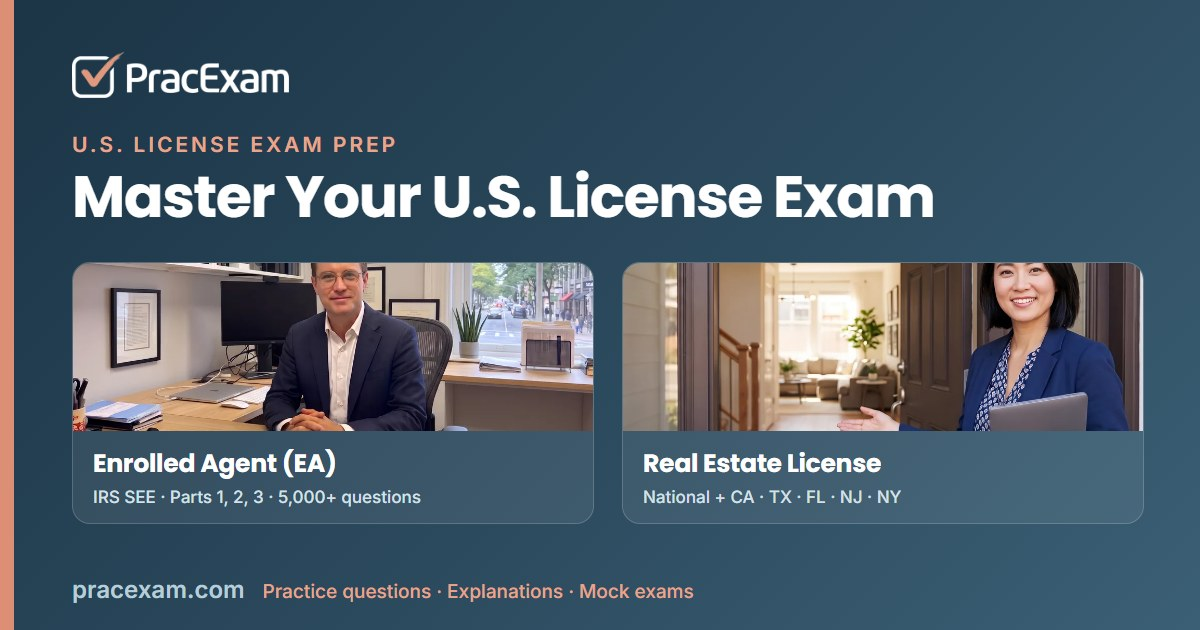
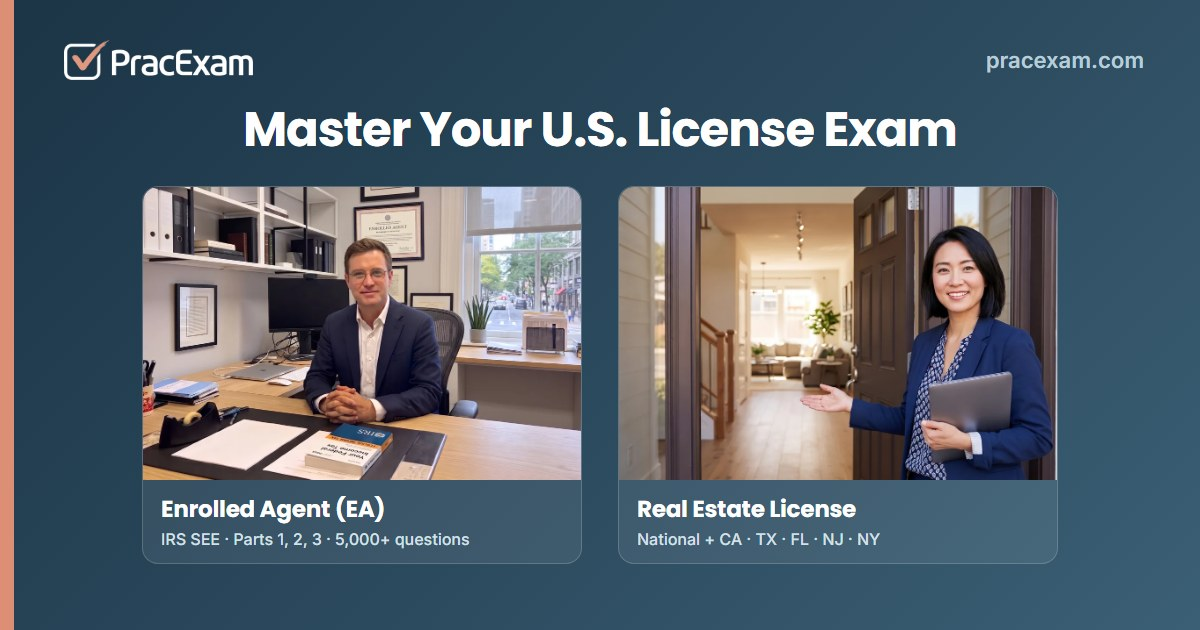
Hub share image: full door photos, smaller

diff --git a/index.html b/index.html
@@ -74,7 +74,7 @@
 <meta property="og:url" content="https://pracexam.com/">
 <meta property="og:title" content="PracExam | EA &amp; Real Estate License Exam Practice Questions">
 <meta property="og:description" content="PracExam is an online question bank for two U.S. licensing exams: the IRS Enrolled Agent (EA) exam and the real estate license exam (national plus state). Pick your exam and start practicing.">
-<meta property="og:image" content="https://pracexam.com/og-hub.jpg?v=1">
+<meta property="og:image" content="https://pracexam.com/og-hub.jpg?v=2">
 <meta property="og:image:width" content="1200">
 <meta property="og:image:height" content="630">
 <meta property="og:locale" content="en_US">
@@ -82,7 +82,7 @@
 <meta name="twitter:card" content="summary_large_image">
 <meta name="twitter:title" content="PracExam | EA &amp; Real Estate License Exam Practice Questions">
 <meta name="twitter:description" content="PracExam is an online question bank for two U.S. licensing exams: the IRS Enrolled Agent (EA) exam and the real estate license exam (national plus state). Pick your exam and start practicing.">
-<meta name="twitter:image" content="https://pracexam.com/og-hub.jpg?v=1">
+<meta name="twitter:image" content="https://pracexam.com/og-hub.jpg?v=2">
 
 <script type="application/ld+json">
 {
